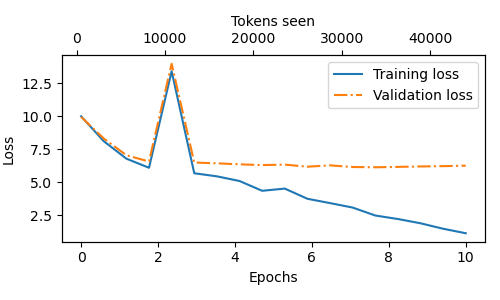
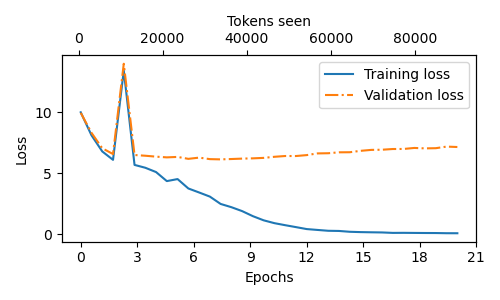
Increase epochs to 20 to see the difference : post epoch 13 the output remains mostly the same, even though training loss goes down to the 0.1xx range. Val loss memories the training loss data and sticks to what it learn around epoch-2/epoch-3 range.
At the beginning of the training, both the training and validation set losses
sharply decrease, which is a sign that the model is learning. However, the training set loss
continues to decrease past the second epoch, whereas the validation loss stagnates.

This is a sign that the model is still learning, but it’s overfitting to the training set
past epoch 2.

diff --git a/pretraining/training.py b/pretraining/training.py
@@ -137,7 +137,8 @@ optimizer = torch.optim.AdamW(
     lr=0.0004, weight_decay=0.1     
 )
 
-num_epochs=10
+#num_epochs=10
+num_epochs=20
 #num_epochs=2 # just to debug plot_losses 
 
 # import everything that I need for this code to compile..
